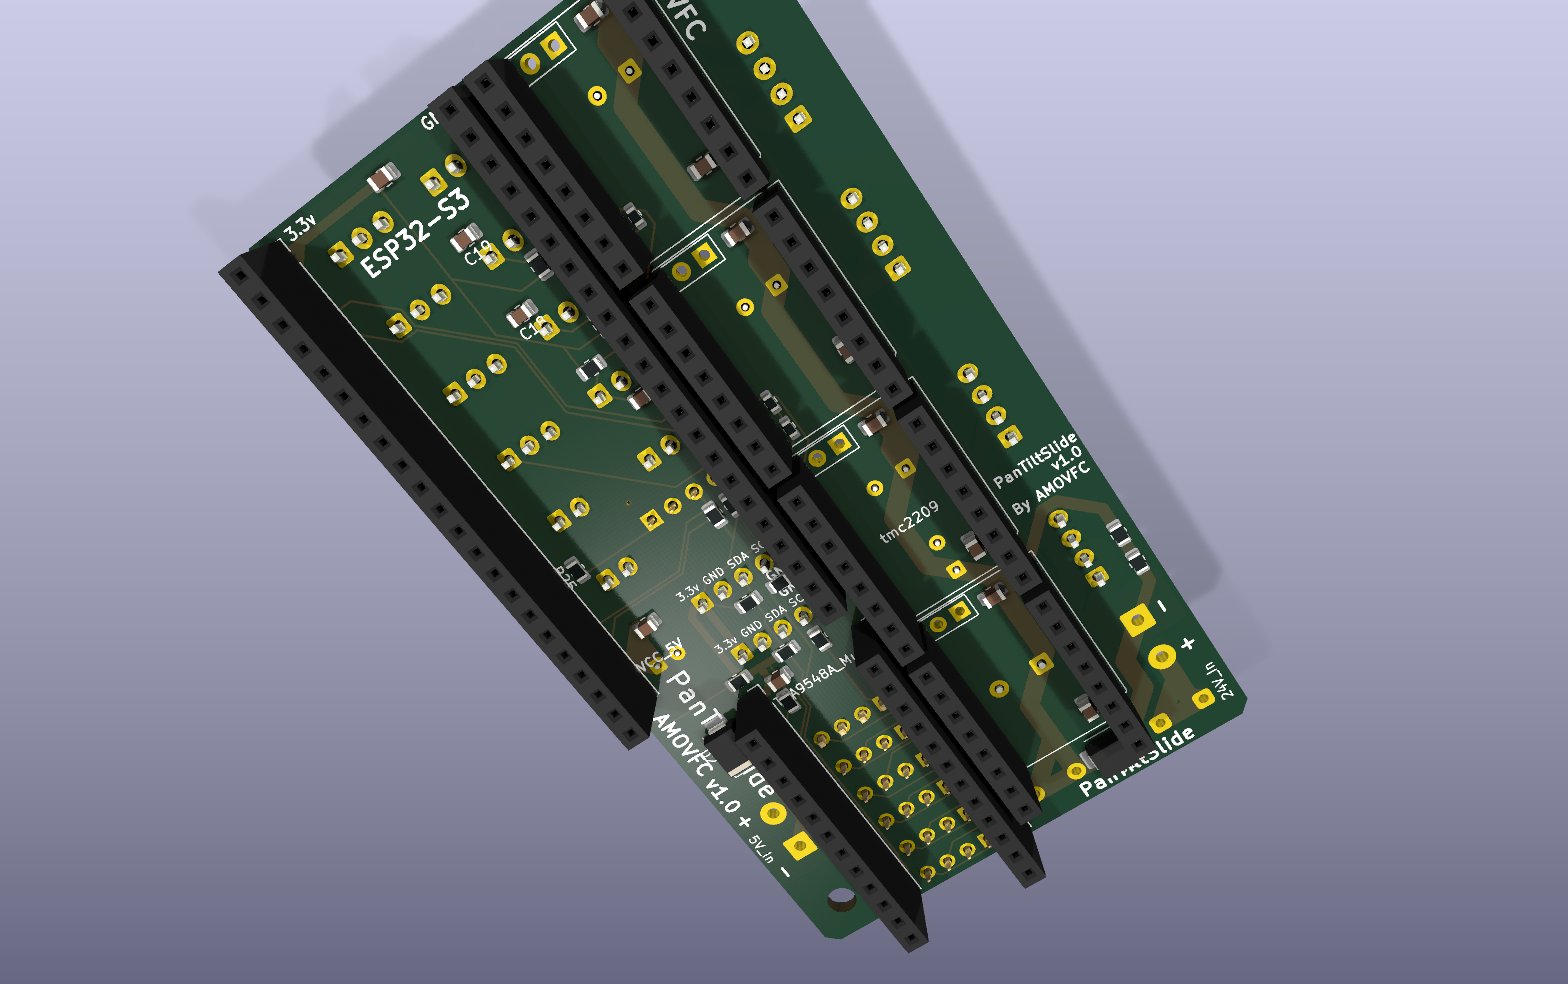
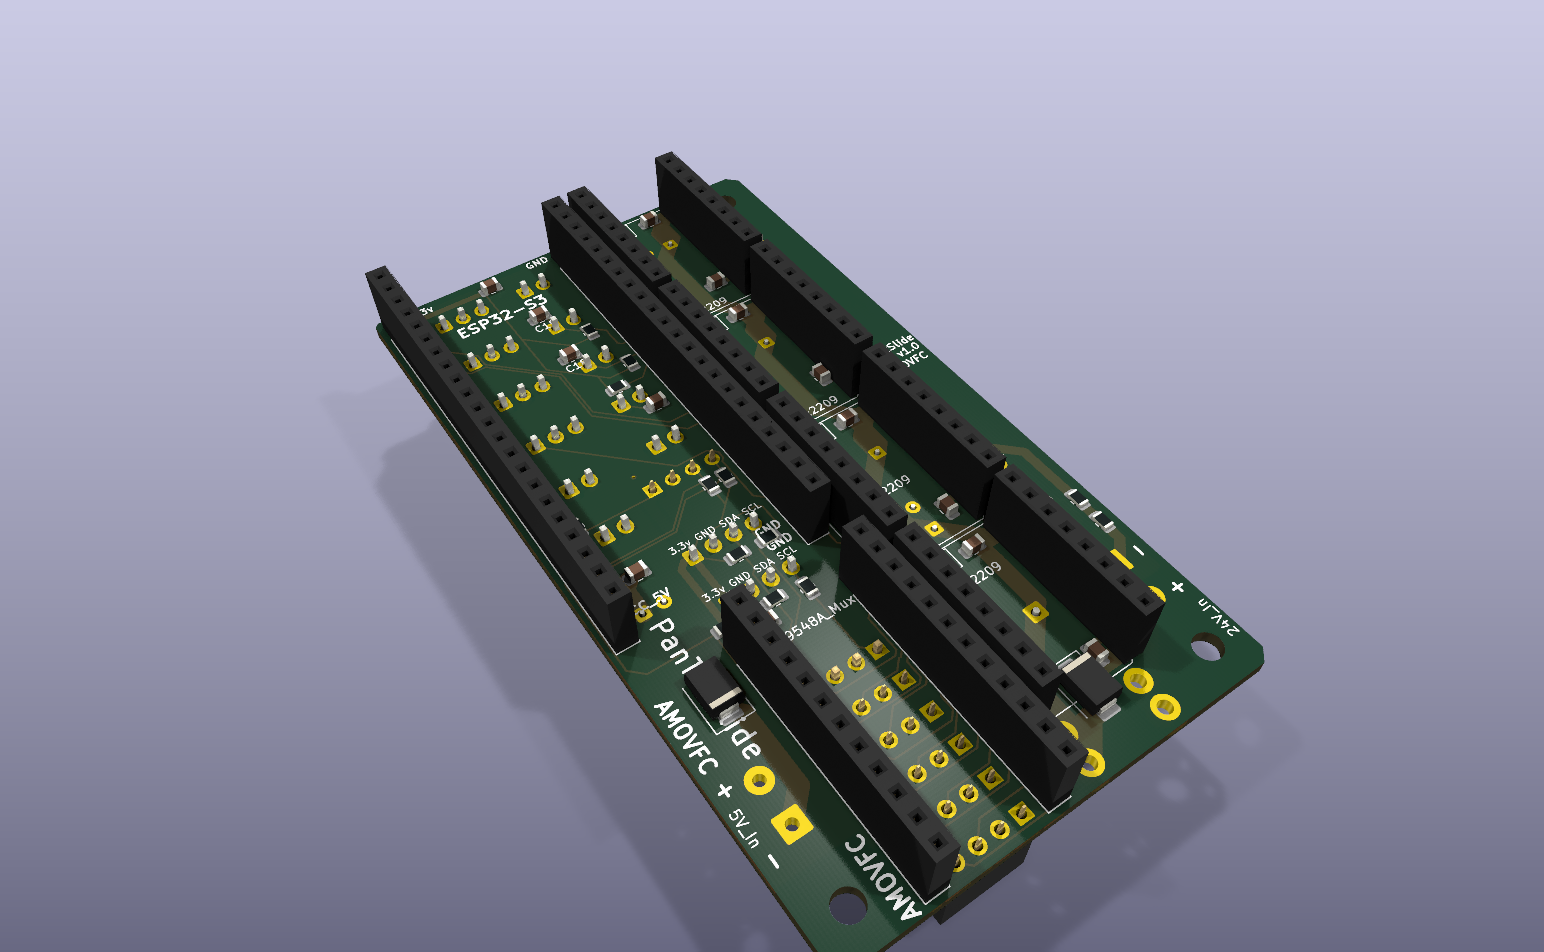
Document the ordered board: pin-header BOM, footprint fields, renders
Switch J23 and J3-J8 to 1x4 male pin headers (C42431787) in the schematic
and bom.csv, and give J3-J8 and U4 the footprints the PCB already has so
Update PCB from Schematic stops tripping on empty footprint fields. Refresh
both READMEs and the renders to match the board as ordered: MINI blade fuse
holder, red LEDs, pin headers, corrected top/bottom captions, and current
DRC/ERC/parity numbers.

diff --git a/hardware/README.md b/hardware/README.md
@@ -13,10 +13,15 @@ limits) lives in the firmware's runtime config, not on this board. See
 |  |  |
 |---|---|
 | ![top](renders/pantilt-controller-top.png) | ![bottom](renders/pantilt-controller-bottom.png) |
-| **Top** — TMC2209 sockets, DevKit sockets, electrolytics, connectors | **Bottom** — SMD decoupling, I²C pull-ups, TVS diodes |
+| **Top** — every cabled connector (JST-XH, terminal blocks, 1×4 headers for the OLED and spare mux channels), the electrolytics, F1 / F2 and the power LEDs | **Bottom** — the DevKit, TMC2209 and TCA9548A sockets (the modules plug in from underneath), SMD decoupling, I²C pull-ups, TVS diodes |
 
-*(Renders are `kicad-cli` ray-traces. Custom footprints — the TMC/DevKit
-sockets — have no 3-D model and show as bare headers.)*
+Renders are `kicad-cli` ray-traces of the board file. F1 and F2 have no 3-D
+model and show as bare pads. To regenerate, from this folder:
+
+```bash
+kicad-cli pcb render --side top    --rotate "-40,0,35"  --zoom 0.9 --quality high --floor --perspective --background opaque --width 1568 --height 984 --output renders/pantilt-controller-top.png    pantilt-controller.kicad_pcb
+kicad-cli pcb render --side bottom --rotate "-40,0,-35" --zoom 0.9 --quality high --floor --perspective --background opaque --width 1568 --height 984 --output renders/pantilt-controller-bottom.png pantilt-controller.kicad_pcb
+```
 
 ## At a glance
 
@@ -27,9 +32,9 @@ sockets — have no 3-D model and show as bare headers.)*
 | Stackup | `F.Cu` / prepreg 0.1 / `In1.Cu` / core 1.24 / `In2.Cu` / prepreg 0.1 / `B.Cu` ≈ 1.6 mm |
 | Planes | `In1.Cu` + `In2.Cu` are both solid GND; F/B carry signal + power |
 | Rails | 24 V (motor), 5 V (DevKit + logic), 3.3 V (from the DevKit regulator) |
-| DRC | 0 errors, 0 unconnected · 63 warnings, all cosmetic silkscreen/library |
-| ERC | 0 errors |
-| Schematic parity | ~27 items — all *Update PCB from Schematic* field syncs (MPN / LCSC / Notes not yet mirrored onto footprints) plus the chronic empty-`fp-lib-table` J3–J8 and `REF**` mounting-hole notes |
+| DRC | 0 errors, 0 unconnected · 64 warnings, all cosmetic (silkscreen overlap / silk over copper, back-layer text, TMC socket library-copy mismatch) |
+| ERC | 0 errors · 96 warnings, mostly off-grid wire endpoints |
+| Schematic parity | 30 items — 26 part-field syncs (MPN / LCSC / Notes not yet copied onto the footprints; *Update PCB from Schematic* fixes them without moving anything, since every symbol's footprint matches the board) plus 4 notes on the unnamed `REF**` mounting holes |
 | On-silk name | `PanTiltSlide v1.0 · AMOVFC` (silk text predates the `pantilt-controller` project rename) |
 
 ## Power and protection
@@ -39,12 +44,12 @@ are fused, and each has a TVS crowbar downstream of its fuse:
 
 | Ref | Part | Function |
 |---|---|---|
-| **F1** | 5×20 mm cartridge in PCB clips (`C3130` clip; cartridge bought separately, ~4 A **slow-blow**) | 24 V input fuse |
+| **F1** | XFCN XF-508P-B-B MINI (ATM) blade fuse holder (`C19727305`) with a **4 A** MINI blade fuse (Littelfuse 297/997 or Bussmann ATM — bought separately) | 24 V input fuse |
 | **D1** | SMBJ33A uni-directional TVS, cathode→+24 V, anode→GND (`C7427916`) | 24 V crowbar: clamps regen/overvoltage transients; conducts hard on reverse polarity to blow F1 |
 | **R29 + R30** | 2 × 10 kΩ in series = 20 kΩ across +24 V / GND | Bleeder — drains the ~870 µF of bulk when the board is off (τ ≈ 17 s), so hand-driving the slide axis can't leave the caps charged. ~29 mW standing. |
 | **F2** | Littelfuse 154 OMNI-BLOK 1.5 A slow-blow Nano² fuse **+ holder** assembly (`C206920`) | 5 V input fuse |
 | **D2** | SMBJ6.5A uni-directional TVS, cathode→VCC_5V, anode→GND (`C52176732`) | 5 V crowbar, downstream of F2 |
-| **LED1 / LED2 / LED3** | green 0805 + series R (`C2297`) | 24 V / 5 V / 3.3 V present indicators. The 5 V (2.2 k) and 3.3 V (1 k) LEDs run sub-mA and are dim by design — they mirror the reference power board. |
+| **LED1 / LED2 / LED3** | red 0805 (Nationstar NCD0805R1, `C84256`) + series R | 24 V / 5 V / 3.3 V present indicators, ≈ 2.2 / 1.4 / 1.4 mA through 10 k / 2.2 k / 1 k. Red's lower forward voltage roughly triples the 3.3 V LED's current compared with the green part it replaced, so all three are clearly visible. |
 
 Bulk capacitance: **C1** 470 µF/50 V at the 24 V fuse output, **C2–C5**
 4 × 100 µF/50 V one per driver, **C10** 100 µF/25 V on the 5 V input,
@@ -52,30 +57,32 @@ Bulk capacitance: **C1** 470 µF/50 V at the 24 V fuse output, **C2–C5**
 
 ## Connectors
 
+Module sockets are on the bottom; everything that takes a cable is on the top.
+
 | Ref(s) | Label | Type | Goes to |
 |---|---|---|---|
-| J1, J2 | — | 2 × 22-pin socket, 22.86 mm apart | ESP32-S3 DevKitC-1 |
-| U1–U4 | tmc2209 | 2 × 1×8 socket each | TMC2209 SilentStepStick (pads 17/18 unused) |
-| J20, J24 | TCA9548A_Mux | 2 × 12-pin socket | TCA9548A breakout |
+| J1, J2 | — | 2 × 22-pin socket, 22.86 mm apart (bottom) | ESP32-S3 DevKitC-1 |
+| U1–U4 | tmc2209 | 2 × 1×8 socket each (bottom) | TMC2209 SilentStepStick (pads 17/18 unused) |
+| J20, J24 | TCA9548A_Mux | 2 × 12-pin socket (bottom) | TCA9548A breakout |
 | J17 / J18 / J19 / J28 | Motor_Slide / Pan / Tilt / Aux | 4-pin JST-XH | stepper coils (A+ A− B+ B−) |
 | J21 / J22 | AS5600_Pan / Tilt | 4-pin JST-XH | AS5600 magnet-encoder heads (I²C) |
 | J29 / J30 / J31 / J32 | Enc_Slide / Pan / Tilt / Aux | 3-pin JST-XH | panel quadrature encoders |
 | J26 / J27 | Limit_Min / Max | 2-pin JST-XH | slide end-stop switches |
 | J41 | Aux_Max | 2-pin JST-XH | Z / aux end-stop |
 | J33 / J34 / J35 / J36 | Btn_SetKeyframe / ClearKeyframe / PlayPause / Reset | 2-pin JST-XH | panel buttons |
-| J23 | OLED | 4-pin socket | SSD1306 128×64 I²C OLED |
+| J23 | OLED | 1×4 male pin header | SSD1306 128×64 I²C OLED |
 | J37 / J38 | 5V_In / 24V_In | 5 mm 2-pin terminal block | supplies |
-| J3–J8 | MUX_2 … MUX_7 | 1×4 footprint (unfitted) | optional breakouts for the 6 spare TCA9548A channels |
+| J3–J8 | MUX_2 … MUX_7 | 1×4 male pin header | breakouts for the 6 spare TCA9548A channels |
 
 Full source→destination GPIO map: [`../software/docs/pinout.md`](../software/docs/pinout.md).
 
 ## Bill of materials
 
 Generated from the schematic — [`bom.csv`](bom.csv) is the machine-readable
-copy. Grouped by value; `Qty` is total pieces. Every LCSC number is verified on
-LCSC as of 2026-09; the LED / R25–R33 / C1 / R10–R11 part numbers were added or
-corrected in the schematic and still need *Update PCB from Schematic* to reach
-the board footprints.
+copy. Grouped by value; `Qty` is total pieces per board. Every LCSC number was
+re-checked against LCSC stock and ordered as the build cart on 2026-09-12, and
+`bom.csv` and the schematic agree on all 24 parts. The part fields haven't been
+copied onto the PCB footprints yet (see *Schematic parity* above).
 
 | Refs | Value | Footprint | Qty | MPN | Mfr | LCSC |
 |---|---|---|--:|---|---|---|
@@ -87,17 +94,17 @@ the board footprints.
 | C12 | 22 µF / 16 V | 0805 | 1 | HGC0805R5226K160NSLJ | HGC | **C7472967** |
 | D1 | SMBJ33A TVS | SMB | 1 | SMBJ33A | NH | **C7427916** |
 | D2 | SMBJ6.5A TVS | SMB | 1 | SMBJ6.5A | TDSEMIC | **C52176732** |
-| F1 | 5×20 mm fuse clip ×2 | inline clip | 1 | (clip) | Generic | **C3130** *(cartridge bought separately)* |
+| F1 | 4 A MINI blade fuse holder | XF-508P-B-B | 1 | XF-508P-B-B | XFCN | **C19727305** *(fuse bought separately)* |
 | F2 | 1.5 A slow-blow + holder | OMNI-BLOK | 1 | 015401.5DR | Littelfuse | **C206920** |
 | J1, J2 | 1×22 socket | PinSocket 2.54 | 2 | ZX-PM2.54-1-22PY | Ckmtw | **C7499337** |
 | J20, J24 | 1×12 socket | PinSocket 2.54 | 2 | KH-2.54FH-1X12P-H8.5 | Ckmtw | **C2905419** |
-| J23 | 1×4 socket | PinSocket 2.54 | 1 | 2.54-1×4P | Ckmtw | **C2718488** |
+| J3–J8, J23 | 1×4 male pin header | PinSocket 2.54 | 7 | PZ2.54-1X4P-H25 | JXTCONN | **C42431787** |
 | J17–J19, J28 | 4-pin | JST-XH B4B | 4 | B4B-XH-A(LF)(SN) | JST | **C144395** |
 | J21, J22 | 4-pin | JST-XH B4B | 2 | B4B-XH-A(LF)(SN) | JST | **C144395** |
 | J29–J32 | 3-pin | JST-XH B3B | 4 | B3B-XH-A(LF)(SN) | JST | **C144394** |
 | J26, J27, J33–J36, J41 | 2-pin | JST-XH B2B | 7 | B2B-XH-A(LF)(SN) | JST | **C158012** |
 | J37, J38 | 2-pin terminal, 5 mm | MX126-5.0 | 2 | MX126-5.0-02P-GN01-Cu-S-A | MaiXu | **C5188434** |
-| LED1–LED3 | green 0805 | 0805 | 3 | KT-0805G | Hubei KENTO | **C2297** |
+| LED1–LED3 | red 0805 | 0805 | 3 | NCD0805R1 | Nationstar | **C84256** |
 | R1–R4 | 4.7 kΩ | 0805 | 4 | 0805W8F4701T5E | Uniroyal | **C17673** |
 | R5–R8, R32 | 2.2 kΩ | 0805 | 5 | 0805W8F2201T5E | Uniroyal | **C17520** |
 | R10, R11 | 100 Ω | 0603 | 2 | 0603WAF1000T5E | Uniroyal | **C22775** |
@@ -109,33 +116,42 @@ the board footprints.
 **Not on the LCSC BOM** — bought separately or supplied by the builder:
 ESP32-S3 DevKitC-1, 4 × TMC2209 SilentStepStick, TCA9548A breakout, 2 × AS5600
 module, SSD1306 OLED, 4 × panel encoder, 4 × panel button, limit switches,
-steppers, 24 V PSU, and the F1 cartridge fuse.
+steppers, 24 V PSU, and the 4 A MINI blade fuse for F1.
 
 > R1–R4 (4.7 k) and R5–R8 (2.2 k) are the I²C pull-ups — bus A / the two active
-> mux channels. J3–J8 have no footprint assigned in the schematic yet (the
-> project has no `fp-lib-table`); fit the same 1×4 socket as J23 if you ever
-> populate them.
+> mux channels. J3–J8 and J23 take male 1×4 headers in `PinSocket_1x04`
+> footprints: the copper is identical (2.54 mm pitch, Ø1.0 mm drill), and the
+> header's datasheet recommends Ø1.02 mm for its 0.64 mm square pins.
 
 ## Manufacturing
 
 1. **Fab the bare PCB** at PCBWay (or any 4-layer house) — standard 1.6 mm,
-   1 oz, HASL/ENIG, from the Gerbers you plot out of KiCad.
+   1 oz, HASL/ENIG, from the Gerbers you plot out of KiCad. **Refill zones
+   (`B`) and save before plotting** — the Gerbers carry whatever copper pour is
+   stored in the file, and a stale pour can sit inside the clearance of a part
+   that has moved.
 2. **Hand-assemble** from the LCSC cart above. PCBWay only warranty parts they
    also place, so the BOM deliberately sticks to common Uniroyal / Yageo
    passives and stocked LCSC parts that are useful on other projects too.
-3. The `Fuse` / `TMC2209` / `sww1235` libraries are not in this project's config,
-   so KiCad shows `lib_footprint_issues` on F2 and U1–U4 and a handful of
-   `footprint_symbol_mismatch` on J3–J8 — none affect the Gerbers. The
-   TMC socket's courtyard is also malformed in that third-party footprint;
+   F1's four holes are drilled Ø1.6 mm, the XFCN datasheet minimum; the
+   holder's 0.40 × 1.60 mm flat pins measure 1.65 mm across the diagonal, so
+   expect a tight fit — a 1.7 mm reamer opens the holes if it won't seat.
+3. [`fp-lib-table`](fp-lib-table) registers the project's `PanTilt` (F1
+   holder) and `TMC2209` libraries. U1–U4 still report
+   `lib_footprint_mismatch` — the board's embedded socket differs from
+   `lib/TMC2209.pretty` — which doesn't affect the Gerbers. The TMC socket's
+   courtyard is also malformed in that third-party footprint;
    `malformed_courtyard` is set to *ignore* to match the older boards.
 
 ## Folder contents
 
 ```
 pantilt-controller.kicad_{pcb,sch,pro,prl}   the KiCad 10 project
+fp-lib-table                                  registers lib/PanTilt.pretty and lib/TMC2209.pretty
 bom.csv                                       BOM export (regenerate with kicad-cli sch export bom)
-renders/                                      board renders (kicad-cli pcb render)
-lib/TMC2209.pretty, lib/New_Library.kicad_sym the board's footprint / symbol deps
+renders/                                      board renders (kicad-cli pcb render — command above)
+lib/PanTilt.pretty                            F1 fuse-holder footprint (XFCN XF-508P-B-B)
+lib/TMC2209.pretty, lib/New_Library.kicad_sym the board's TMC socket footprint / symbol deps
 tools/pcb_review/                             deterministic DFM review scripts (used by .github/workflows/pcb-review.yml)
 ```
 

diff --git a/README.md b/README.md
@@ -38,12 +38,14 @@ move. Slide and Z home against physical switches.
 ## The board in one paragraph
 
 An ESP32-S3 DevKitC-1 drops into two 22-pin sockets. Four TMC2209
-SilentStepSticks, a TCA9548A breakout, two AS5600 encoder heads, an OLED, four
-panel encoders, four buttons and the limit switches all plug in over JST-XH and
-pin-socket connectors. Both supply rails (24 V motor, 5 V logic) are fused, with
-a TVS crowbar downstream of each fuse and a bleeder across the 24 V bulk caps so
-hand-driving an axis while the board is off can't leave the capacitors charged.
-Details and BOM: [`hardware/README.md`](hardware/README.md).
+SilentStepSticks and a TCA9548A breakout plug into pin sockets; two AS5600
+encoder heads, four panel encoders, four buttons and the limit switches plug in
+over JST-XH; the OLED and the six spare mux channels break out on 1×4 pin
+headers. Both supply rails are fused — a 4 A MINI blade fuse on the 24 V motor
+rail, a 1.5 A Nano² on the 5 V logic rail — with a TVS crowbar downstream of
+each fuse and a bleeder across the 24 V bulk caps so hand-driving an axis while
+the board is off can't leave the capacitors charged. Details and BOM:
+[`hardware/README.md`](hardware/README.md).
 
 ## The firmware in one paragraph
 
